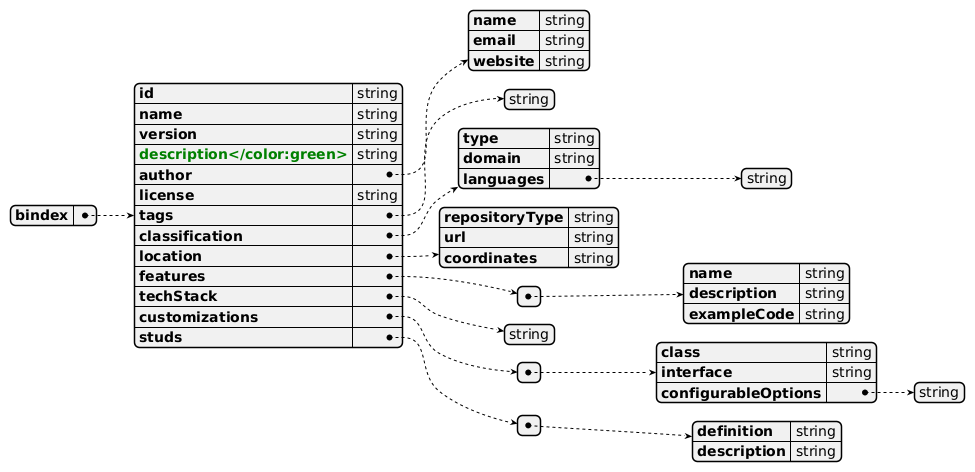
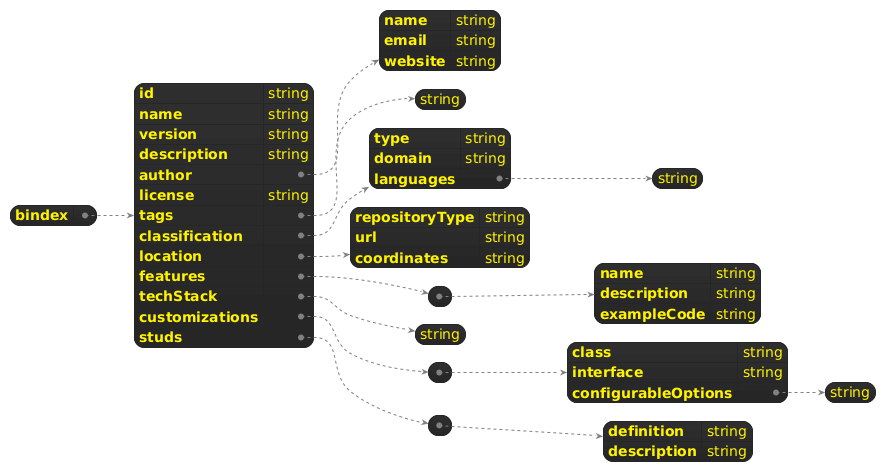
updated README.

diff --git a/README.md b/README.md
@@ -1,6 +1,6 @@
 ![](src/site/resources/images/machai-logo.png)
 
-# Machai | Machanism.Org
+# Machai
 
 ## Project Description
 
@@ -12,7 +12,7 @@ The `bindex.json` file serves as a structured repository of library information 
 
 The `bindex.json` is a descriptor file that encapsulates library and content information, which can be used to automatically assemble customer applications. This process leverages GenAI to analyze project information and store the descriptor file in a vector database for semantic search functionality in response to user queries. 
 
-![](src/site/resources/images/bindex-schema.svg)
+![](src/site/resources/images/bindex-schema.png)
 
 ### BINDEX Generation and Registration
 
